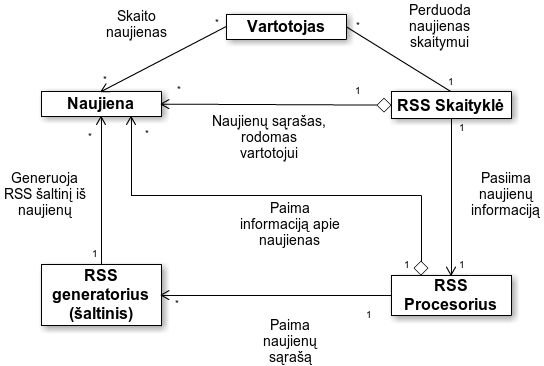
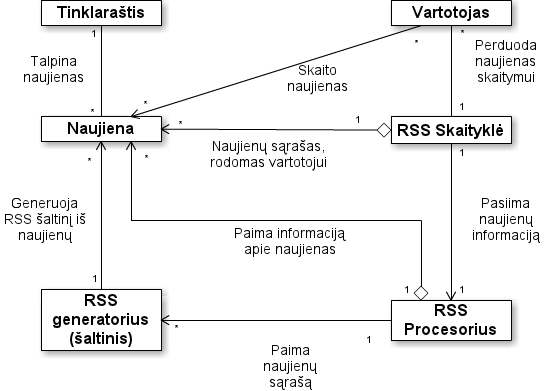
Vidinė analizė papildyta tinklaraščiais

diff --git a/projektas/2.2_vidine_analize.md b/projektas/2.2_vidine_analize.md
@@ -1,21 +1,10 @@
 # Vidinė verslo proceso analizė
 
-Nagrinėjame internetinius tinklalapius ir portalus (toliau - tinklalapiai) savo
-sistemoje naudojančius RSS. Tai XML kalba paremtas struktūrizuotas kodas (RSS
-šaltinis), pastoviais intervalais atnaujinamas tinklalapio savininko
-nustatytomis naujienomis, kurias užsiprenumeravęs, tinklalapio vartotojas gali
-perskaityti naudodamas RSS agregatorius (skaitykles), kurie, kas nurodytą laiko
-tarpą siunčia užklausą į serverį tikslindamiesi, ar yra naujos informacijos.
-Jei taip - ta informacija parsiunčiama ir atvaizduojama vartotojui. Dažniausiai
-vienas vartotojas užsiprenumeruoja daugiau nei vieną RSS šaltinį. Iš kiekvieno
-RSS šaltinio gaunamas įvairus skaičius naujienų, priklausomai nuo tinklalapio
-naujienų generavimo spartos. Visi šie naujienų pranešimai nebūtinai yra įdomūs
-vartotojui, tačiau jis vistiek turi bent peržvelgti naujienos antraštę.  Tai
-užima papildomo vartotojo laiko.
+Nagrinėjame internetinių įrašų ir naujienų skaitymo būdus. Pagrindiniai iš jų yra tiesioginis skaitymas įrašo šaltinyje ir skaitymas naudojant RSS agregatorių. Atlikę išorinę dalykinės srities analizę, nustatėme, kad naudojimasis ir vienu, ir kitu būdu yra problematiški. Didžiausios problemos yra susijusios su per dideliu pateikiamos informacijos kiekiu bei aktualumu vartotojui. 
 
-## Statinė struktūra
+## Dalykinės srities statinė struktūra
 
-![Statinė strūktura](projektas/img/statine_struktura.png)
+![Dalykinės srities statinė strūktura](projektas/img/statine_struktura.png)
 
 \FloatBarrier
 
@@ -29,45 +18,68 @@ užima papildomo vartotojo laiko.
 
 **RSS Procesorius:** Nuskaito naujienų sąrašus iš kiekvieno RSS šaltinio bei agreguoja naujienų informaciją.
 
+**Tinklaraštis:** Internetinis tinklalapis talpinantis konkretaus autoriaus ar autorių grupės straipsnius tam tikromis temomis.
+
 ## Užduotys
 
-![Užduotys](projektas/img/uzduotys.png)
+![Užduotys](projektas/img/uzduotys_1_lygis.png)
+
+![Užduotys, skaitant tiesiogiai](projektas/img/uzduotys_ties.png)
+
+![Užduotys, skaitant RSS agregatoriuje](projektas/img/uzduotys.png)
 
 \FloatBarrier
 
 ## Užduočių scenarijai
 
-**Vartotojo registracija**
+**Turinio skaitymas tiesiogiai šaltinyje**
 
 \begin{table}[!ht]
     \begin{tabular}{|p{3cm}|p{4cm}|p{4cm}|p{4cm}|}
         \hline
         \textbf{Pirminis agentas} & \textbf{Prieš sąlyga} & \textbf{Po sąlyga} & \textbf{Pasikartojimo dažnis} \\ \hline
-        Vartotojas. & Vartotojas nėra prisijungęs prie sistemos. & Vartotojui sukuriama paskyra sistemoje. & Vienas kartas vienam vartotojui. \\
+        Vartotojas. & Vartotojas žino tinklaraščio adresą. & Vartotojas perskaitė įrašus tinklaraštyje. & Vidutiniškai 3 kartus per dieną. \\
         \hline
     \end{tabular}
 \end{table}
 
 \FloatBarrier
 
-![Užduotis: Registracija](projektas/img/uzduotis_registracija.png)
+![Užduotis: Turinio skaitymas tiesiogiai šaltinyje](projektas/img/perskaityti_turini_ties.png)
 
 \FloatBarrier
 
-**Vartotojo prisijungimas**
+**Įrašo komentavimas tinklaraštyje**
 
 \begin{table}[!ht]
     \begin{tabular}{|p{3cm}|p{4cm}|p{4cm}|p{4cm}|}
         \hline
         \textbf{Pirminis agentas} & \textbf{Prieš sąlyga} & \textbf{Po sąlyga} & \textbf{Pasikartojimo dažnis} \\ \hline
-        Vartotojas. & Vartotojas turi paskyrą sistemoje ir žino jos prisijungimo duomenis. & Vartotojas, prisijungęs į sistemą. & Kiekvieną sesiją arba ne rečiau nei kas 30 dienų. \\
+        Vartotojas. & Vartotojas atsidaręs norimo komentuoti įrašo puslapį. & Vartotojo komentaras išsaugotas tinklaraštyje. & Vidutiniškai 1 kartą per 2 metus. \\
         \hline
     \end{tabular}
 \end{table}
 
 \FloatBarrier
 
-![Užduotis: Prisijungti](projektas/img/uzduotis_prisijungti.png)
+![Užduotis: Įrašo komentavimas tinklaraštyje](projektas/img/komentuoti_turini_ties.png)
+
+\FloatBarrier
+
+**Įrašo paieška tinklaraštyje**
+
+\begin{table}[!ht]
+    \begin{tabular}{|p{3cm}|p{4cm}|p{4cm}|p{4cm}|}
+        \hline
+        \textbf{Pirminis agentas} & \textbf{Prieš sąlyga} & \textbf{Po sąlyga} & \textbf{Pasikartojimo dažnis} \\ \hline
+        Vartotojas. & Vartotojas atsidaręs tinklaraštį interneto naršyklėje. & Vartotojas surado norimą įrašą. & Vidutiniškai 2 kartus per mėnesį. \\
+        \hline
+    \end{tabular}
+\end{table}
+
+\FloatBarrier
+
+![Užduotis: Įrašo paieška tinklaraštyje](projektas/img/ieskoti_turinio_ties.png)
 
 \FloatBarrier
 
@@ -122,7 +134,7 @@ užima papildomo vartotojo laiko.
 
 \FloatBarrier
 
-**Perskaityti naujienas**
+**Perskaityti naujienas RSS agregatoriuje**
 
 \begin{table}[!ht]
     \begin{tabular}{|p{3cm}|p{4cm}|p{4cm}|p{4cm}|}
@@ -135,11 +147,11 @@ užima papildomo vartotojo laiko.
 
 \FloatBarrier
 
-![Užduotis: Perskaityti naujienas](projektas/img/uzduotis_perskaityti_naujienas.png)
+![Užduotis: Perskaityti naujienas RSS agregatoriuje](projektas/img/uzduotis_perskaityti_naujienas.png)
 
 \FloatBarrier
 
-**Paieška tarp naujienų**
+**Paieška tarp naujienų RSS agregatoriuje**
 
 \begin{table}[!ht]
     \begin{tabular}{|p{3cm}|p{4cm}|p{4cm}|p{4cm}|}
@@ -152,7 +164,7 @@ užima papildomo vartotojo laiko.
 
 \FloatBarrier
 
-![Užduotis: Paieška tarp naujienų](projektas/img/uzduotis_paieska_tarp_naujienu.png)
+![Užduotis: Paieška tarp naujienų RSS agregatoriuje](projektas/img/uzduotis_paieska_tarp_naujienu.png)
 
 \FloatBarrier
 
@@ -173,60 +185,11 @@ užima papildomo vartotojo laiko.
 
 \FloatBarrier
 
-**Išsiregistruoti**
-
-\begin{table}[!ht]
-    \begin{tabular}{|p{3cm}|p{4cm}|p{4cm}|p{4cm}|}
-        \hline
-        \textbf{Pirminis agentas} & \textbf{Prieš sąlyga} & \textbf{Po sąlyga} & \textbf{Pasikartojimo dažnis} \\ \hline
-        Sistemos administratorius. & Sistemoje egzistuoja norimas pašalinti vartotojas. & Pašalinta vartotojo paskyra. & Vartotojui pažeidus teisės aktus ar sistemos naudojimo sąlygas. \\
-        \hline
-    \end{tabular}
-\end{table}
-
-\FloatBarrier
-
-![Užduotis: Išsiregistruoti](projektas/img/uzduotis_vartotojui_pasinaikinti.png)
-
-\FloatBarrier
-
-**Pašalinti vartotoją**
-
-\begin{table}[!ht]
-    \begin{tabular}{|p{3cm}|p{4cm}|p{4cm}|p{4cm}|}
-        \hline
-        \textbf{Pirminis agentas} & \textbf{Prieš sąlyga} & \textbf{Po sąlyga} & \textbf{Pasikartojimo dažnis} \\ \hline
-        Sistemos administratorius. & Sistemoje egzistuoja norimas pašalinti vartotojas. & Pašalinta vartotojo paskyra. & Vartotojui pažeidus teisės aktus ar sistemos naudojimo sąlygas. \\
-        \hline
-    \end{tabular}
-\end{table}
-
-\FloatBarrier
-
-![Užduotis: Šalinti vartotoja (admin)](projektas/img/uzduotis_salinti_vartotoja.png)
-
-\FloatBarrier
-
-**Keisti sistemos nustatymus**
-
-\begin{table}[!ht]
-    \begin{tabular}{|p{3cm}|p{4cm}|p{4cm}|p{4cm}|}
-        \hline
-        \textbf{Pirminis agentas} & \textbf{Prieš sąlyga} & \textbf{Po sąlyga} & \textbf{Pasikartojimo dažnis} \\ \hline
-        Sistemos administratorius. & ??? & Pakeisti sisteminiai nustatymai. & Kiekvieną kartą iškilus reikalui pakeisti sisteminius nustatymus. \\
-        \hline
-    \end{tabular}
-\end{table}
-
-\FloatBarrier
-
-![Užduotis: Keisti sisteminius nustatymus (admin)](projektas/img/uzduotis_admin_keisti_sist_nust.png)
-
-\FloatBarrier
-
 ## Dinaminė dalykinės srities struktūra
 
-![Dinaminė dalykinės srities struktūra: šaltinis](projektas/img/dass_saltinis.png)  
+![Dinaminė dalykinės srities struktūra: RSS šaltinis](projektas/img/dass_saltinis.png)  
+
+Vartotojui, prieš naudojantis RSS šaltiniu, reikia jį pridėti į RSS agregatoriaus prenumeruojamų šaltinių sąrašą. Pridėjus šaltinis tampa aktyvus vartotojo aplinkoje. Kas nustatytą laiko tarpą šaltinis yra patikrinamas, ar jame nėra naujų įrašų ir jeigu jų yra - juos atvaizduoja vartotojui kaip naujus, neperskaitytus.
 
 \FloatBarrier
 
@@ -236,15 +199,20 @@ užima papildomo vartotojo laiko.
 
 ![Dinaminė dalykinės srities struktūra: naujiena](projektas/img/dass_naujiena.png)  
 
+RSS agregatorius pastoviais intervalais tikrina ar yra naujų įrašų vartotojo prenumeruojamame šaltinyje. Jeigu jų yra - atvaizduoja juos vartotojui kaip neperskaitytus. Vartotojui perskaičius naujieną, ji pakeičia būseną į perskaitytą ir taip jis gali atskirti, kurie įrašai iš RSS agregatoriaus įkeltų yra nauji, o kurie perskaityti. Aktualius, įdomius, patinkančius įrašus vartotojas gali pažymėti pamėgtais, taip palengvindamas to įrašo suradimą ateityje. Įrašas gali būti ištrintas iš visų įrašų sąrašo neperskaičius jo, perskaičius ar pažymėjus pamėgtu.
+
 \FloatBarrier
 
 ## Stiprybės
 
-- Sistema gali aptarnauti daug klientų vienu metu.
-- Klientų aptarnavimas yra visiškai automatizuotas.
-- Gali dirbti su dideliais šaltinių kiekiais.
+- Sistemos gali aptarnauti daug klientų vienu metu.
+- Vartotojų aptarnavimas yra visiškai automatizuotas.
+- RSS agregatorius gali dirbti su dideliais šaltinių kiekiais.
+- Tinklaraštis suteikia galimybę sužinoti skaitytojų nuomones apie straipsnį.
 
 ## Silpnybės
 
 - RSS Agregatoriaus rodomas turinys priklauso nuo išorinių RSS generatorių, kurių ši sistema negali kontroliuoti.
 - RSS Agregatorius negali garantuoti, kad naujienų informacija bus paimama iš RSS generatoriaus, jei jo sugeneruojamas kodas nėra teisingas ar neatitinka Atom standarto.
+- Prieš skaitant įrašus tinklaraštyje vartotojas nežino, ar jame yra naujų įrašų, ar ne
+- Vartotojas tinklaraštyje privalo peržvelgti visus įrašus, norėdamas surasti jam aktualų, naują straipsnį.
